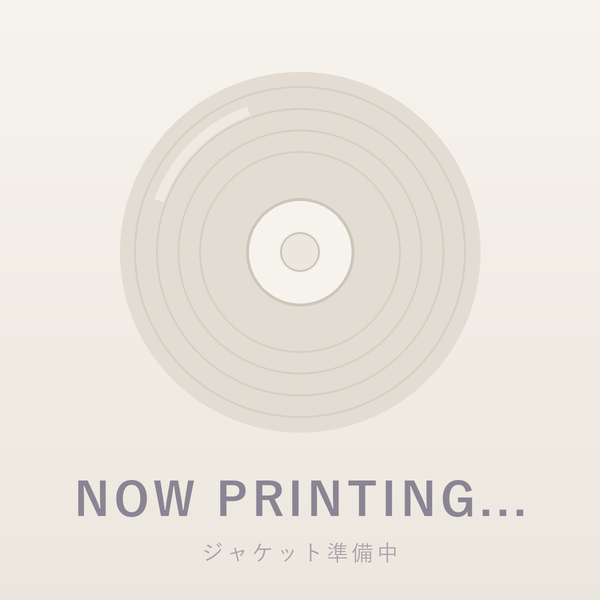
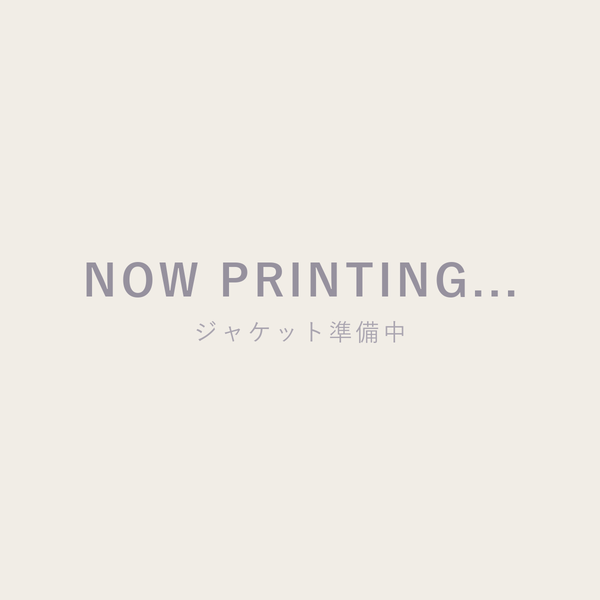
[fix]「NOW PRINTING...」画像をシンプルなデザインに変更（無地の背景＋NOW PRINTING...／ジャケット準備中）

diff --git a/promote/assets/app.js b/promote/assets/app.js
@@ -423,7 +423,7 @@ function cardEl(it, idx) {
 const JK_WAIT = "楽曲を選ぶと自動で更新されます";
 const JK_FAIL = "ジャケットの取得に失敗しました。自分でジャケットの設定ができます";
 // ジャケット未設定の曲に出す画像（scripts/make_now_printing.py で作成）
-const NOW_PRINTING = "assets/now_printing.png";
+const NOW_PRINTING = "assets/now_printing.png?v=3"; // 画像を作り直したら ?v= を変える
 
 // ジャケットの表示位置。表と裏が横に並んだジャケットを正方形の中央で切ると背表紙が映るので、
 // 横長（幅が高さの WIDE_RATIO 倍以上）の画像は表紙側を見せる。今のデータで横長なのはランティスの

diff --git a/promote/index.html b/promote/index.html
@@ -172,6 +172,6 @@
 <div id="export-stage" aria-hidden="true"></div>
 
 <script src="https://cdnjs.cloudflare.com/ajax/libs/html2canvas/1.4.1/html2canvas.min.js"></script>
-<script src="assets/app.js?v=20261116p" type="module"></script>
+<script src="assets/app.js?v=20261116r" type="module"></script>
 </body>
 </html>

diff --git a/promote/scripts/make_now_printing.py b/promote/scripts/make_now_printing.py
@@ -4,7 +4,9 @@
 
   python scripts/make_now_printing.py
 
+- シンプルなデザイン：無地の背景の中央に「NOW PRINTING...」と、その下に小さく「ジャケット準備中」。
 - どのブランドの曲にも使うので、ブランドカラーは使わない落ち着いた色にする。
+- 作り直したら app.js の NOW_PRINTING の ?v= を変える（ブラウザに古い画像が残らないように）。
 - 要 Pillow / Windows の游ゴシック（無ければ BIZ UDゴシック・メイリオ）。
 """
 from __future__ import annotations
@@ -16,16 +18,11 @@ from PIL import Image, ImageDraw, ImageFont
 ROOT = Path(__file__).resolve().parent.parent
 OUT = ROOT / "assets" / "now_printing.png"
 SIZE = 600
-S = 2  # 2倍で描いて縮小（円・文字をなめらかにする）
+S = 2  # 2倍で描いて縮小（文字をなめらかにする）
 
-BG_TOP = (246, 243, 237)
-BG_BOTTOM = (236, 231, 222)
-DISC = (226, 220, 210)
-DISC_RING = (214, 207, 196)
-DISC_SHINE = (238, 234, 227)
-HOLE_RING = (205, 198, 186)
-TEXT = (138, 133, 147)
-SUB = (168, 162, 172)
+BG = (241, 237, 230)
+TEXT = (150, 145, 158)
+SUB = (170, 165, 176)
 
 FONT_CANDIDATES = ["C:/Windows/Fonts/YuGothB.ttc", "C:/Windows/Fonts/BIZ-UDGothicB.ttc", "C:/Windows/Fonts/meiryob.ttc"]
 FONT_CANDIDATES_R = ["C:/Windows/Fonts/YuGothM.ttc", "C:/Windows/Fonts/BIZ-UDGothicR.ttc", "C:/Windows/Fonts/meiryo.ttc"]
@@ -38,42 +35,23 @@ def font(cands: list[str], size: int) -> ImageFont.FreeTypeFont:
     raise SystemExit("日本語フォントが見つかりません")
 
 
-def spaced_text(d: ImageDraw.ImageDraw, cx: float, y: float, text: str, f, fill, spacing: float) -> None:
-    """字間を空けて中央揃えで描く"""
+def spaced_text(d: ImageDraw.ImageDraw, cx: float, cy: float, text: str, f, fill, spacing: float) -> None:
+    """字間を空けて、上下左右とも中央に描く"""
     widths = [d.textlength(ch, font=f) for ch in text]
     total = sum(widths) + spacing * (len(text) - 1)
     x = cx - total / 2
     for ch, w in zip(text, widths):
-        d.text((x, y), ch, font=f, fill=fill, anchor="ls")
+        d.text((x, cy), ch, font=f, fill=fill, anchor="lm")
         x += w + spacing
 
 
 def main() -> None:
     W = SIZE * S
-    img = Image.new("RGB", (W, W), BG_TOP)
+    img = Image.new("RGB", (W, W), BG)
     d = ImageDraw.Draw(img)
-    for y in range(W):  # 上から下へうっすらグラデーション
-        t = y / (W - 1)
-        d.line([(0, y), (W, y)], fill=tuple(round(BG_TOP[i] * (1 - t) + BG_BOTTOM[i] * t) for i in range(3)))
-
-    # CD のシルエット
-    cx, cy, r = W / 2, W * 0.42, W * 0.30
-    d.ellipse([cx - r, cy - r, cx + r, cy + r], fill=DISC)
-    for k in (0.92, 0.80, 0.68, 0.56):  # 溝
-        rr = r * k
-        d.ellipse([cx - rr, cy - rr, cx + rr, cy + rr], outline=DISC_RING, width=S * 2)
-    # 光の反射（左上に細い弧）
-    d.arc([cx - r * 0.86, cy - r * 0.86, cx + r * 0.86, cy + r * 0.86], 200, 250, fill=DISC_SHINE, width=S * 10)
-    # 中心
-    rh = r * 0.30
-    d.ellipse([cx - rh, cy - rh, cx + rh, cy + rh], fill=BG_TOP, outline=HOLE_RING, width=S * 3)
-    rh2 = r * 0.11
-    d.ellipse([cx - rh2, cy - rh2, cx + rh2, cy + rh2], fill=BG_BOTTOM, outline=HOLE_RING, width=S * 2)
-
-    # 文字
-    spaced_text(d, W / 2, W * 0.86, "NOW PRINTING...", font(FONT_CANDIDATES, 46 * S), TEXT, 4 * S)
-    spaced_text(d, W / 2, W * 0.935, "ジャケット準備中", font(FONT_CANDIDATES_R, 22 * S), SUB, 3 * S)
-
+    # 2行（英語＋日本語）でまとまりとして中央に来るよう、少し上下に分ける
+    spaced_text(d, W / 2, W * 0.47, "NOW PRINTING...", font(FONT_CANDIDATES, 44 * S), TEXT, 4 * S)
+    spaced_text(d, W / 2, W * 0.555, "ジャケット準備中", font(FONT_CANDIDATES_R, 24 * S), SUB, 3 * S)
     img = img.resize((SIZE, SIZE), Image.LANCZOS)
     OUT.parent.mkdir(parents=True, exist_ok=True)
     img.save(OUT, optimize=True)
